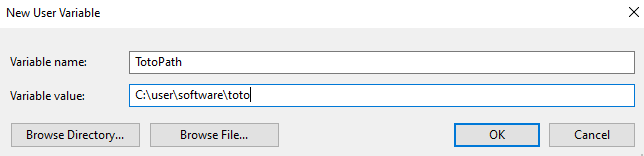
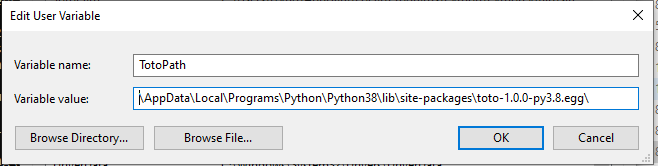
update the maual

diff --git a/docs/_build/html/install.html b/docs/_build/html/install.html
@@ -37,11 +37,15 @@
 <h1>Installation:<a class="headerlink" href="#installation" title="Permalink to this headline">¶</a></h1>
 <div class="section" id="where-to-get-it">
 <h2>Where to get it<a class="headerlink" href="#where-to-get-it" title="Permalink to this headline">¶</a></h2>
-<p>The source code is currently hosted on GitHub at: <a class="reference external" href="https://github.com/calypso-science/Totoview">https://github.com/calypso-science/Totoview</a></p>
+<p>The source code is currently hosted on GitHub at: <a class="reference external" href="https://github.com/calypso-science/Totoview">https://github.com/calypso-science/Totoview</a>
+Clone the repo:</p>
+<div class="highlight-bash notranslate"><div class="highlight"><pre><span></span>git clone https://github.com/calypso-science/Totoview.git
+</pre></div>
+</div>
 </div>
 <div class="section" id="module-requirements">
 <h2>Module requirements:<a class="headerlink" href="#module-requirements" title="Permalink to this headline">¶</a></h2>
-<p>Toto module needs to be installed:
+<p>Toto module needs to be installed see <a class="reference external" href="https://totodoc.readthedocs.io/en/latest/install.htm">https://totodoc.readthedocs.io/en/latest/install.htm</a>:
 The source code is currently hosted on GitHub at: <a class="reference external" href="https://github.com/calypso-science/Toto">https://github.com/calypso-science/Toto</a></p>
 <p>For windows user, if using the compiled version (.exe file)A environmental variable must be setup
 To set it up temporarily:</p>
@@ -52,10 +56,6 @@ To set it up temporarily:</p>
 </div>
 <div class="section" id="install-from-sources">
 <h2>Install from sources<a class="headerlink" href="#install-from-sources" title="Permalink to this headline">¶</a></h2>
-<dl class="simple">
-<dt>Toto toolbox needs to be installed :</dt><dd><p>see <a class="reference external" href="https://github.com/calypso-science/Toto">https://github.com/calypso-science/Toto</a> for instructions</p>
-</dd>
-</dl>
 <p>Install requirements. Navigate to the base root of totoview and execute:</p>
 <div class="highlight-bash notranslate"><div class="highlight"><pre><span></span>pip install -r requirements.txt
 </pre></div>
@@ -65,28 +65,54 @@ To set it up temporarily:</p>
 </pre></div>
 </div>
 </div>
-<div class="section" id="windows-installation">
-<h2>Windows installation:<a class="headerlink" href="#windows-installation" title="Permalink to this headline">¶</a></h2>
-<p>Once installed, WINDOWS user must set up an Environmental variable with the folder name from where TOTO has been installed.
-The variable MUST be called TotoPath.</p>
-<a class="reference internal image-reference" href="_images/windows_path.png"><img alt="_images/windows_path.png" class="align-center" src="_images/windows_path.png" style="height: 150px;" /></a>
-</div>
-<div class="section" id="using-the-compiled-version">
-<h2>Using the compiled version<a class="headerlink" href="#using-the-compiled-version" title="Permalink to this headline">¶</a></h2>
+<div class="section" id="using-the-compiled-version-on-windows">
+<h2>Using the compiled version on WINDOWS<a class="headerlink" href="#using-the-compiled-version-on-windows" title="Permalink to this headline">¶</a></h2>
 <p>There are two versions of TOTOVIEW that are already compiled for Windows user.
-They can be found on the GitHub page:</p>
+They can be found on the GitHub page (<a class="reference external" href="https://github.com/calypso-science/Totoview/releases">https://github.com/calypso-science/Totoview/releases</a>):</p>
 <ul class="simple">
 <li><p>totoview_withtoto.exe.</p></li>
 </ul>
 <blockquote>
-<div><p>This version will install TOTO and TOTOVIEW. No need to install TOTO, it is included in it. However, you will need to wait for a new release to update your code</p>
+<div><p>This version will install TOTO and TOTOVIEW. No need to install TOTO, it is included in it. However, you will need to wait for a new release to update your code. In this version it is not possible to get the extra plugins</p>
 </div></blockquote>
 <ul class="simple">
 <li><p>totoview_nototo.exe.</p></li>
 </ul>
 <blockquote>
-<div><p>This version will install TOTOVIEW and TOTO’s requirement. You still need to install TOTO but you can skip the requirement installation. This is easier to update TOTO’s code, just need to pull the updated code from GitHub and re-install TOTO.</p>
+<div><p>This version will install TOTOVIEW and TOTO’s requirement.
+You still need to install TOTO but you can skip the requirement installation.
+This is easier to update TOTO’s code, just need to pull the updated code from GitHub and re-install TOTO. To do follow this steps:</p>
 </div></blockquote>
+<div class="section" id="step-1-clone">
+<h3>Step 1: Clone<a class="headerlink" href="#step-1-clone" title="Permalink to this headline">¶</a></h3>
+<p>Clone the TOTO repo from github:
+.. code:: bash</p>
+<blockquote>
+<div><p>git clone <a class="reference external" href="https://github.com/calypso-science/Toto.git">https://github.com/calypso-science/Toto.git</a></p>
+</div></blockquote>
+<p>Clone the TOTO plugins repo if you access</p>
+</div>
+<div class="section" id="step-2-install-toto">
+<h3>Step 2: Install TOTO<a class="headerlink" href="#step-2-install-toto" title="Permalink to this headline">¶</a></h3>
+<div class="highlight-bash notranslate"><div class="highlight"><pre><span></span>python setup.py install
+</pre></div>
+</div>
+<p>Look where is your installed path and copy it, It should look like: <code class="docutils literal notranslate"><span class="pre">C:\Users\username\AppData\Local\Programs\Python\Python38\lib\site-packages\toto-1.0.0-py3.8.egg\</span></code></p>
+</div>
+<div class="section" id="step-3-add-the-environmetal-variable">
+<h3>Step 3: Add the Environmetal variable<a class="headerlink" href="#step-3-add-the-environmetal-variable" title="Permalink to this headline">¶</a></h3>
+<p>You must set up an Environmental variable with the folder name from where TOTO has been installed.
+The variable MUST be called <code class="docutils literal notranslate"><span class="pre">TotoPath</span></code>.</p>
+<a class="reference internal image-reference" href="_images/windows_path.png"><img alt="_images/windows_path.png" class="align-center" src="_images/windows_path.png" style="height: 150px;" /></a>
+</div>
+<div class="section" id="step-4-add-the-plugins">
+<h3>Step 4: Add the plugins<a class="headerlink" href="#step-4-add-the-plugins" title="Permalink to this headline">¶</a></h3>
+<p>If you have access to the plugins go the folder and do:
+.. code:: bash</p>
+<blockquote>
+<div><p>python add_module.py</p>
+</div></blockquote>
+</div>
 </div>
 </div>
 
@@ -113,11 +139,12 @@ They can be found on the GitHub page:</p>
 <li class="toctree-l2"><a class="reference internal" href="#where-to-get-it">Where to get it</a></li>
 <li class="toctree-l2"><a class="reference internal" href="#module-requirements">Module requirements:</a></li>
 <li class="toctree-l2"><a class="reference internal" href="#install-from-sources">Install from sources</a></li>
-<li class="toctree-l2"><a class="reference internal" href="#windows-installation">Windows installation:</a></li>
-<li class="toctree-l2"><a class="reference internal" href="#using-the-compiled-version">Using the compiled version</a></li>
+<li class="toctree-l2"><a class="reference internal" href="#using-the-compiled-version-on-windows">Using the compiled version on WINDOWS</a></li>
 </ul>
 </li>
 <li class="toctree-l1"><a class="reference internal" href="loading.html"> loading</a></li>
+<li class="toctree-l1"><a class="reference internal" href="gui.html"> The GUI</a></li>
+<li class="toctree-l1"><a class="reference internal" href="support.html"> support</a></li>
 </ul>
 
 <div class="relations">

diff --git a/docs/_build/html/searchindex.js b/docs/_build/html/searchindex.js
@@ -1,1 +1,1 @@
-Search.setIndex({docnames:["gui","index","install","loading","support"],envversion:{"sphinx.domains.c":2,"sphinx.domains.changeset":1,"sphinx.domains.citation":1,"sphinx.domains.cpp":4,"sphinx.domains.index":1,"sphinx.domains.javascript":2,"sphinx.domains.math":2,"sphinx.domains.python":3,"sphinx.domains.rst":2,"sphinx.domains.std":2,"sphinx.ext.viewcode":1,sphinx:56},filenames:["gui.rst","index.rst","install.rst","loading.rst","support.rst"],objects:{},objnames:{},objtypes:{},terms:{"0":3,"08":3,"1":3,"100":3,"2":[],"20":[],"2000":3,"3":[],"3000":3,"default":0,"function":[0,1],"import":3,"new":[0,2],"true":3,A:[0,1,2],For:2,If:0,It:1,No:2,The:[1,2,4],Then:[2,3],There:2,To:[0,2],_:[],_document:[],_static:[],ad:0,add:2,align:[],all:[0,1],alreadi:2,also:0,an:[1,2,4],ani:[0,4],anoth:0,aournd:0,appear:0,ar:[2,4],attribut:0,bar:0,base:2,bash:[],becarful:0,been:[0,2],befor:0,between:0,button:0,c:[0,2],calcul:0,calendar:0,call:2,calypso:[2,4],can:[0,2],card:[],center:[],chang:0,check:[],choos:0,click:0,code:2,com:2,command:0,compil:1,compiled64:[],conjunct:0,contact:4,contribut:4,copi:0,corner:0,creat:4,csv:3,ctrl:0,current:2,d:0,data:0,datafam:0,datafram:1,date:0,del:3,delet:0,descript:0,detail:0,develop:4,df:3,differ:0,direct:0,displai:[0,1],document:0,dodsc:3,drag:0,draw:0,drop:[],dropdown:0,e:0,easier:2,easiest:4,enabl:1,enter:0,environment:2,ex:2,execut:2,exempl:0,extra:0,factor:0,fals:3,feel:4,file:[0,1,2],filenam:0,find_peak:0,folder:2,fork:4,found:[0,2],free:4,from:[0,1],get:[1,4],github:[2,4],glby0:3,go:0,graph:0,ha:[0,2],hand:0,have:[0,1],height:[],help:[0,4],host:2,how:1,howev:2,html:[],http:[2,3],hycom:3,i:0,imag:[],includ:2,index:[0,1],inform:0,inplac:3,input:0,instal:1,instruct:2,interact:1,interpol:0,issu:4,just:2,know:3,lat:3,latest:3,load:[0,1],lon:3,main:1,manipul:0,mark:0,matplotlib:0,menu:0,metocean:4,modul:1,move:0,multipl:0,must:[0,2],my_fold:3,name:[0,2,3],navig:2,navigation_toolbar:[],need:2,obtain:0,offset:0,onc:[0,2],one:0,onto:0,open:4,open_dataset:3,org:3,otoview:[],output:0,page:[1,2],pan:0,panel:0,past:0,peak:0,pip:2,pleas:4,plot:0,plugin:0,png:[],point:0,press:0,process:[],project:4,pull:[2,4],px:[],py:2,python:2,queri:4,r:[2,3,4],re:2,reader:3,rectangl:0,red:0,releas:2,remi:4,remov:0,request:4,requir:1,reset_index:3,right:0,root:2,run:[],s:[1,2],save:0,scale:0,scatter:0,scienc:[2,4],scipi:0,search:1,seclect:0,see:2,select:0,set:2,set_index:3,setup:2,shortcut:1,show:[0,3],side:0,skip:2,softwar:2,solut:4,some:0,sourc:[1,4],specif:4,statist:0,still:2,support:1,surf_el:3,tabl:0,taken:0,td:3,temporarili:2,thei:2,them:0,thi:[0,2,4],thredd:3,tick:0,time:[0,3],timeseri:0,timestep:1,to_datafram:3,toobar:0,toolbar:1,toolbox:2,top:0,toto:[1,2,4],totopath:2,totoview:[0,2,3,4],totoview_nototo:2,totoview_setup:[],totoview_withtoto:2,two:[0,2],txt:[2,3],type:0,unit:0,unselect:0,unzip:[],up:2,updat:2,url:3,us:[0,1,3],useful:0,user:[0,1,2],v:0,variabl:[0,2],version:1,view:1,visual:[],wai:4,wait:2,want:3,welcom:4,when:0,where:1,wild:[],window:[1,3],wrapper:1,xar:3,xarrai:3,you:[2,3],your:2,zip:[],zoom:0,zyngfogel:4},titles:["The GUI","Totoview","Installation:","How to load","Support"],titleterms:{A:3,The:0,card:3,compil:2,content:1,datafram:3,drag:3,drop:3,file:3,from:[2,3],get:2,gui:[0,1,3],how:3,indic:1,instal:2,load:3,main:0,modul:2,process:1,python:1,requir:2,shortcut:0,sourc:2,support:4,tabl:1,timeseri:1,toolbar:0,totoview:1,us:2,version:2,view:0,where:2,wild:3,window:2}})
+Search.setIndex({docnames:["gui","index","install","loading","support"],envversion:{"sphinx.domains.c":2,"sphinx.domains.changeset":1,"sphinx.domains.citation":1,"sphinx.domains.cpp":4,"sphinx.domains.index":1,"sphinx.domains.javascript":2,"sphinx.domains.math":2,"sphinx.domains.python":3,"sphinx.domains.rst":2,"sphinx.domains.std":2,"sphinx.ext.viewcode":1,sphinx:56},filenames:["gui.rst","index.rst","install.rst","loading.rst","support.rst"],objects:{},objnames:{},objtypes:{},terms:{"0":[2,3],"08":3,"1":3,"100":3,"2":[],"20":[],"2000":3,"3":[],"3000":3,"8":2,"default":0,"do":2,"function":[0,1],"import":3,"new":[0,2],"true":3,A:[0,1,2],For:2,If:[0,2],In:2,It:[1,2],No:2,The:[1,2,4],Then:[2,3],There:2,To:[0,2],_:[],_document:[],_static:[],access:2,ad:0,add:[],add_modul:2,align:[],all:[0,1],alreadi:2,also:0,an:[1,2,4],ani:[0,4],anoth:0,aournd:0,appdata:2,appear:0,ar:[2,4],attribut:0,bar:0,base:2,bash:2,becarful:0,been:[0,2],befor:0,between:0,button:0,c:[0,2],calcul:0,calendar:0,call:2,calypso:[2,4],can:[0,2],card:[],center:[],chang:0,check:[],choos:0,click:0,code:2,com:2,command:0,compil:1,compiled64:[],conjunct:0,contact:4,contribut:4,copi:[0,2],corner:0,creat:4,csv:3,ctrl:0,current:2,d:0,data:0,datafam:0,datafram:1,date:0,del:3,delet:0,descript:0,detail:0,develop:4,df:3,differ:0,direct:0,displai:[0,1],document:0,dodsc:3,drag:0,draw:0,drop:[],dropdown:0,e:0,easier:2,easiest:4,egg:2,en:2,enabl:1,enter:0,environment:2,ex:2,execut:2,exempl:0,extra:[0,2],factor:0,fals:3,feel:4,file:[0,1,2],filenam:0,find_peak:0,folder:2,follow:2,fork:4,found:[0,2],free:4,from:[0,1],get:[1,4],git:2,github:[2,4],glby0:3,go:[0,2],graph:0,ha:[0,2],hand:0,have:[0,1,2],height:[],help:[0,4],host:2,how:1,howev:2,htm:2,html:[],http:[2,3],hycom:3,i:0,imag:[],includ:2,index:[0,1],inform:0,inplac:3,input:0,instal:1,instruct:[],interact:1,interpol:0,io:2,issu:4,just:2,know:3,lat:3,latest:[2,3],lib:2,like:2,load:[0,1],local:2,lon:3,look:2,main:1,manipul:0,mark:0,matplotlib:0,menu:0,metocean:4,modul:1,move:0,multipl:0,must:[0,2],my_fold:3,name:[0,2,3],navig:2,navigation_toolbar:[],need:2,obtain:0,offset:0,onc:0,one:0,onto:0,open:4,open_dataset:3,org:3,otoview:[],output:0,packag:2,page:[1,2],pan:0,panel:0,past:0,path:2,peak:0,pip:2,pleas:4,plot:0,plugin:0,png:[],point:0,possibl:2,press:0,process:[],program:2,project:4,pull:[2,4],px:[],py3:2,py:2,python38:2,python:2,queri:4,r:[2,3,4],re:2,reader:3,readthedoc:2,rectangl:0,red:0,releas:2,remi:4,remov:0,repo:2,request:4,requir:1,reset_index:3,right:0,root:2,run:[],s:[1,2],save:0,scale:0,scatter:0,scienc:[2,4],scipi:0,search:1,seclect:0,see:2,select:0,set:2,set_index:3,setup:2,shortcut:1,should:2,show:[0,3],side:0,site:2,skip:2,softwar:2,solut:4,some:0,sourc:[1,4],specif:4,statist:0,still:2,support:1,surf_el:3,tabl:0,taken:0,td:3,temporarili:2,thei:2,them:0,thi:[0,2,4],thredd:3,tick:0,time:[0,3],timeseri:0,timestep:1,to_datafram:3,toobar:0,toolbar:1,toolbox:[],top:0,toto:[1,4],totodoc:2,totopath:2,totoview:[0,2,3,4],totoview_nototo:2,totoview_setup:[],totoview_withtoto:2,two:[0,2],txt:[2,3],type:0,unit:0,unselect:0,unzip:[],up:2,updat:2,url:3,us:[0,1,3],useful:0,user:[0,1,2],usernam:2,v:0,variabl:0,version:1,view:1,visual:[],wai:4,wait:2,want:3,welcom:4,when:0,where:1,wild:[],window:[1,3],wrapper:1,xar:3,xarrai:3,you:[2,3],your:2,zip:[],zoom:0,zyngfogel:4},titles:["The GUI","Totoview","Installation:","How to load","Support"],titleterms:{"1":2,"2":2,"3":2,"4":2,A:3,The:0,add:2,card:3,clone:2,compil:2,content:1,datafram:3,drag:3,drop:3,environmet:2,file:3,from:[2,3],get:2,gui:[0,1,3],how:3,indic:1,instal:2,load:3,main:0,modul:2,plugin:2,process:1,python:1,requir:2,shortcut:0,sourc:2,step:2,support:4,tabl:1,timeseri:1,toolbar:0,toto:2,totoview:1,us:2,variabl:2,version:2,view:0,where:2,wild:3,window:2}})

diff --git a/docs/_build/html/index.html b/docs/_build/html/index.html
@@ -46,8 +46,7 @@ TOTOVIEW enable the user to have an interactive display of the timeseries and pr
 <li class="toctree-l2"><a class="reference internal" href="install.html#where-to-get-it">Where to get it</a></li>
 <li class="toctree-l2"><a class="reference internal" href="install.html#module-requirements">Module requirements:</a></li>
 <li class="toctree-l2"><a class="reference internal" href="install.html#install-from-sources">Install from sources</a></li>
-<li class="toctree-l2"><a class="reference internal" href="install.html#windows-installation">Windows installation:</a></li>
-<li class="toctree-l2"><a class="reference internal" href="install.html#using-the-compiled-version">Using the compiled version</a></li>
+<li class="toctree-l2"><a class="reference internal" href="install.html#using-the-compiled-version-on-windows">Using the compiled version on WINDOWS</a></li>
 </ul>
 </li>
 <li class="toctree-l1"><a class="reference internal" href="loading.html"> loading</a><ul>

diff --git a/totoview/__init__.py b/totoview/__init__.py
@@ -22,6 +22,8 @@ def _import_functions(pkgname="inputs",name='read'):
         if module == "__init__":
             continue
         func_name = "{}_{}".format(name,module)
+        # if pkgname=='extreme':
+        #     import pdb;pdb.set_trace()
         try:
             # globals()[func_name] = getattr(
             #     import_module("toto.{}.{}".format(pkgname, module)), func_name

diff --git a/docs/install.rst b/docs/install.rst
@@ -7,12 +7,17 @@ Installation:
 =============
 
 Where to get it
---------------------
+---------------
 The source code is currently hosted on GitHub at: https://github.com/calypso-science/Totoview
+Clone the repo:
+
+.. code:: bash
+
+ git clone https://github.com/calypso-science/Totoview.git
 
 Module requirements:
 --------------------
-Toto module needs to be installed:
+Toto module needs to be installed see https://totodoc.readthedocs.io/en/latest/install.htm:
 The source code is currently hosted on GitHub at: https://github.com/calypso-science/Toto
 
 For windows user, if using the compiled version (.exe file)A environmental variable must be setup
@@ -26,14 +31,16 @@ or add TotoPath as environmental variable
 
 Install from sources
 --------------------
-Toto toolbox needs to be installed :
- see https://github.com/calypso-science/Toto for instructions
+Close the repo:
+.. code:: bash
+
+ git clone https://github.com/calypso-science/Totoview.git 
 
 Install requirements. Navigate to the base root of totoview and execute:
 
 .. code:: bash
 
-   pip install -r requirements.txt
+   pip install -r requirements0.txt
 
 
 Then install totoview:
@@ -44,28 +51,59 @@ Then install totoview:
 
 
 
-Windows installation:
----------------------
-Once installed, WINDOWS user must set up an Environmental variable with the folder name from where TOTO has been installed.
-The variable MUST be called TotoPath. 
-
-.. image:: _static/windows_path.png
- :height: 150 px
- :align: center
-
-
-Using the compiled version
---------------------------
+Using the compiled version on WINDOWS
+-------------------------------------
 There are two versions of TOTOVIEW that are already compiled for Windows user.
 They can be found on the GitHub page (https://github.com/calypso-science/Totoview/releases):
 
 • totoview_withtoto.exe.
 
- This version will install TOTO and TOTOVIEW. No need to install TOTO, it is included in it. However, you will need to wait for a new release to update your code
+ This version will install TOTO and TOTOVIEW. No need to install TOTO, it is included in it. However, you will need to wait for a new release to update your code. In this version it is not possible to get the extra plugins
 
 • totoview_nototo.exe.
 
- This version will install TOTOVIEW and TOTO’s requirement. You still need to install TOTO but you can skip the requirement installation. This is easier to update TOTO's code, just need to pull the updated code from GitHub and re-install TOTO.
+ This version will install TOTOVIEW and TOTO’s requirement.
+ You still need to install TOTO but you can skip the requirement installation.
+ This is easier to update TOTO's code, just need to pull the updated code from GitHub and re-install TOTO. To do follow this steps:
+
+Step 1: Clone
+~~~~~~~~~~~~~
+
+Clone the TOTO repo from github:
+.. code:: bash
+
+ git clone https://github.com/calypso-science/Toto.git 
+
+Clone the TOTO plugins repo if you access
+
+Step 2: Install TOTO
+~~~~~~~~~~~~~~~~~~~~
+
+.. code:: bash
+
+   python setup.py install
+
+Look where is your installed path and copy it, It should look like: ``C:\Users\username\AppData\Local\Programs\Python\Python38\lib\site-packages\toto-1.0.0-py3.8.egg\``
+
+Step 3: Add the Environmetal variable
+~~~~~~~~~~~~~~~~~~~~~~~~~~~~~~~~~~~~~
+
+You must set up an Environmental variable with the folder name from where TOTO has been installed.
+The variable MUST be called ``TotoPath``. 
+
+.. image:: _static/windows_path.png
+ :height: 150 px
+ :align: center
+
+Step 4: Add the plugins
+~~~~~~~~~~~~~~~~~~~~~~~
+
+If you have access to the plugins go the folder and do:
+.. code:: bash
+
+   python add_module.py
+
+
 
 
 
